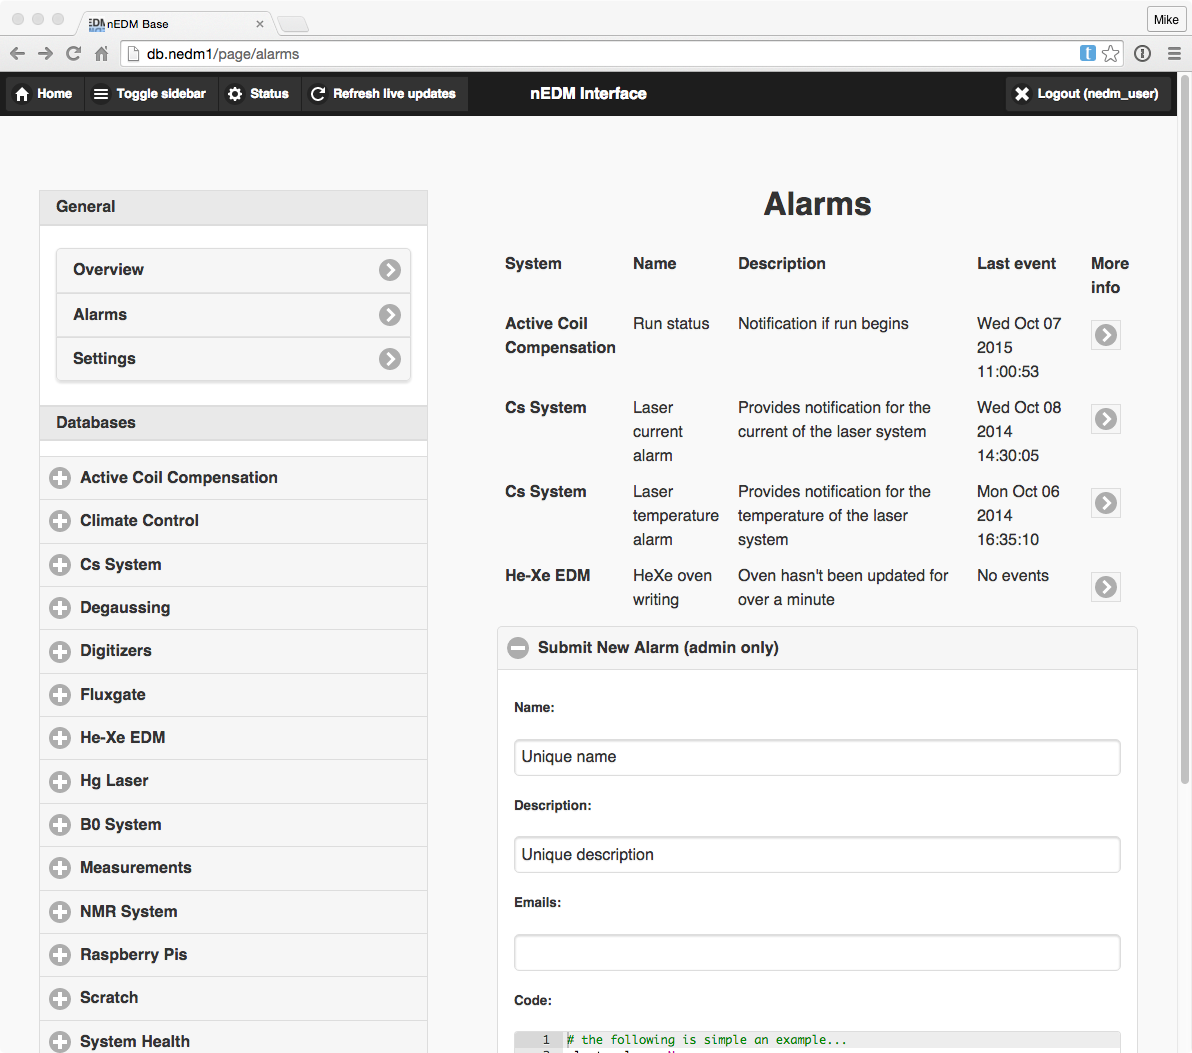
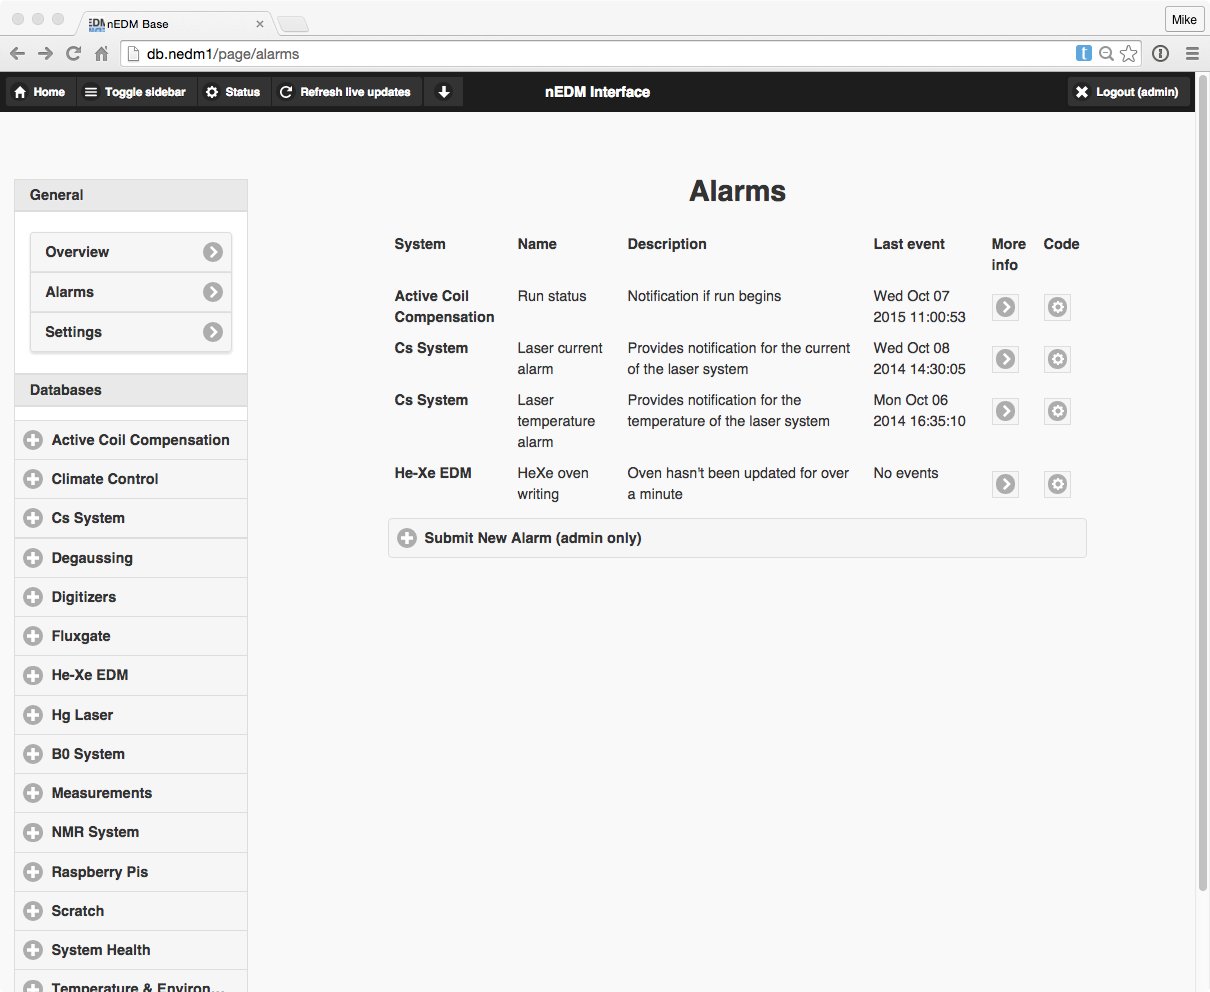
Update alarms page.

diff --git a/doc/tutorials/user_alarms.md b/doc/tutorials/user_alarms.md
@@ -1,0 +1,97 @@
+## Alarms page
+
+[http://db.nedm1/page/alarms](http://db.nedm1/page/alarms)
+
+This page provides an interface to define alarms, which are small scripts that
+run periodically to check values of variables in the database.  The daemon in
+charge of running this is part of the
+[CouchDB Docker](/CouchDB-Docker/subsystems/Maintenance.html#alarm-daemon) and
+the code to it may be found in that repository.
+
+To learn about writing alarm code, [skip to that section](#writing).
+
+
+
+### Interface
+
+The front page of the interface collects all alarms from the different
+subsystems and displays them:
+
+![alarms front page](alarms.png)
+
+By clicking on the `Info` button, one can get information about when recent
+alarms have occurred:
+
+![alarms more info](alarms_info.png)
+
+One can click on the `Code` buttons to view a screen where one can see/edit the
+code, title, description, and emails.  To edit an alarm document, one must
+have write access to the relevant database.
+
+![alarms edit](alarms_edit.png)
+
+
+Submitting an alarm is similar to editing an old one, just open the collapsible
+at the bottom of the page.  To submit an alarm document, one must have write
+access to the relevant database.
+
+
+![alarms new](alarms_new.png)
+
+<a name="writing"></a>
+### Writing alarm code
+
+Example code for an alarm:
+
+```python
+_last_value = None
+def main(db):
+    global _last_value
+    lv = _last_value
+    _last_value = latest_value('run_status', 6)['rows'][0]['value']['max']
+    if lv is None: return
+    if lv == 0 and _last_value == 1:
+        raise AlarmEvent('Coil run begun', 'run_status has changed')
+```
+
+Points to note:
+
+* all alarms need to have a `main` function
+* all alarms have access to the function `latest_value`, which grabs
+information about a single variable from the database.  This function looks
+like:
+```python
+def latest_value(var_name, group_level=100):
+    """
+    Get the latest value of a given variable, this returns the output from the
+    _stat function, which will look like:
+      { u'rows': [
+                   {u'value': {u'count': 1,
+                               u'max': 8.35961456298828,
+                               u'sum': 8.35961456298828,
+                               u'sumsqr': 69.88315564172574,
+                               u'min': 8.35961456298828},
+                    u'key': [u'Bx', 2014, 4, 4, 13, 7, 22]}
+                 ]
+      }
+    If a group_level is given <=6, then the values will be agregated.  (This is an
+    efficient way to look e.g. for extremes over the last minute/hour/day/etc.)
+    """
+```
+* all alarms need to raise certain exceptions to notify a change in alarm
+state.  The available exceptions (with rising levels of criticality):
+ - `AlarmWarning`
+ - `AlarmError`
+ - `AlarmCritical`
+
+All exceptions should be called like:
+
+```python
+if alarm_condition == True:
+    AlarmError("error seen here", "More descriptive text about the error")
+```
+
+Alarm scripts should *always* raise exceptions if an alarm condition exists.
+The alarm daemon keeps track of the state and only sends emails when the state
+changes (e.g. an alarm appears, the criticality changes, or the alarm clears).
+
